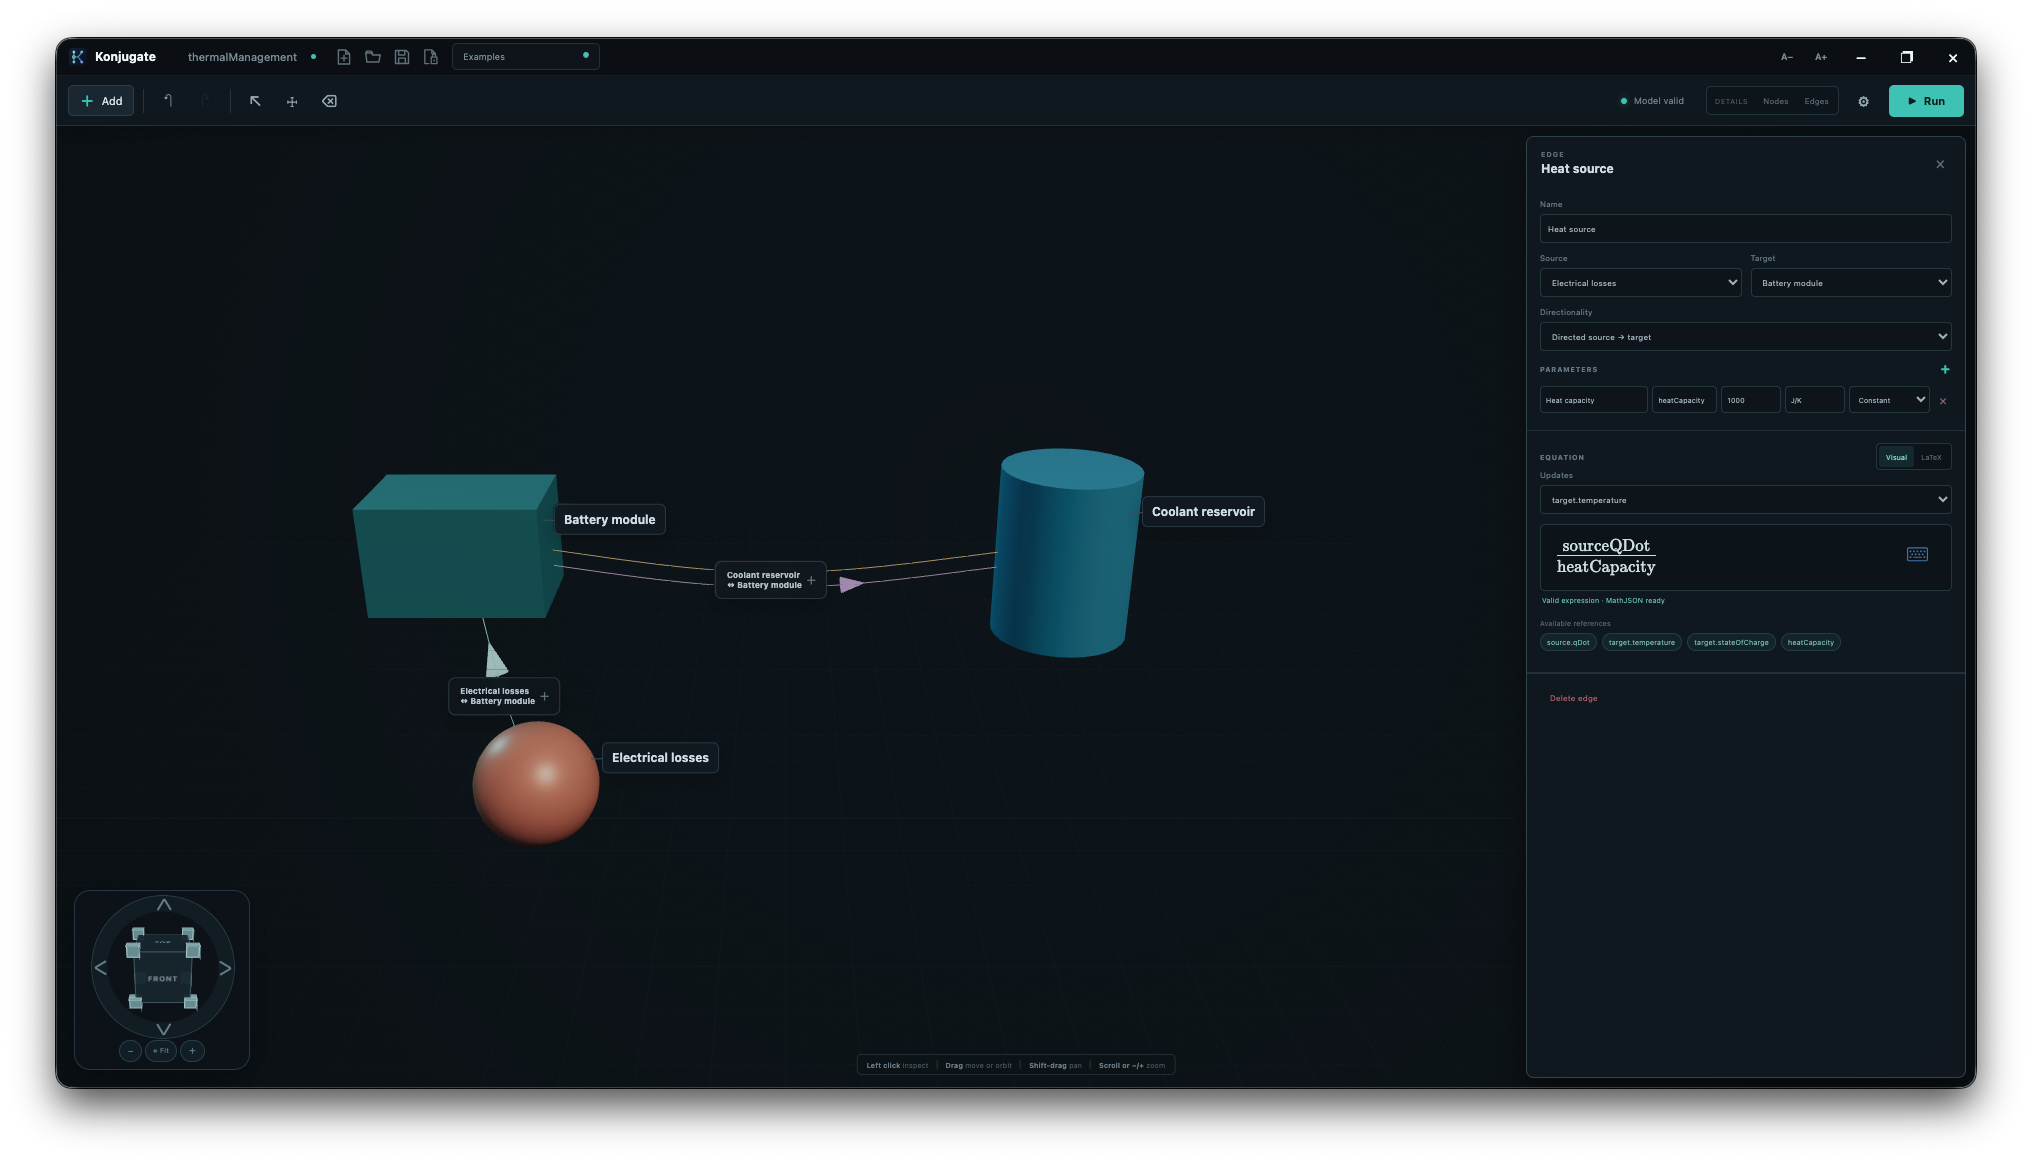
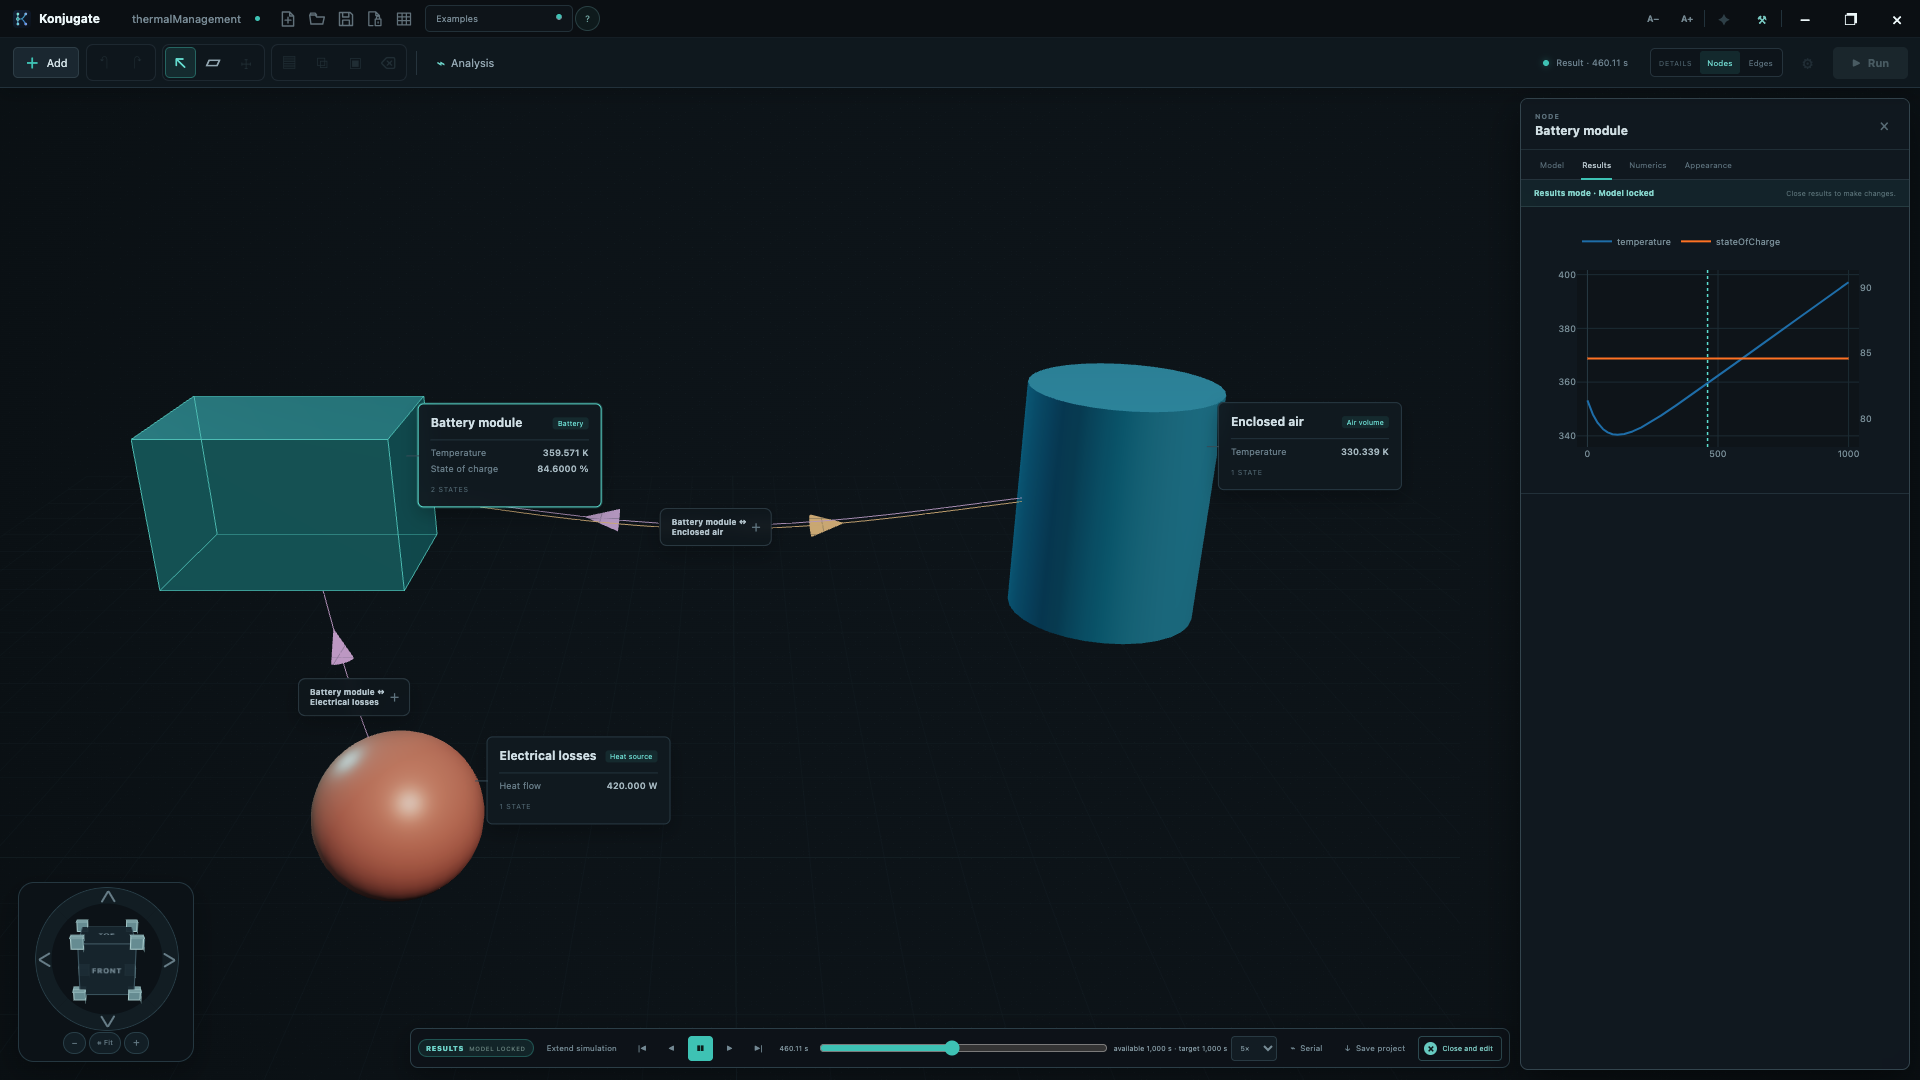
ReadMe update

diff --git a/ReadMe.md b/ReadMe.md
@@ -123,8 +123,8 @@ make build
 The build installs missing dependencies, generates application and web icons, packages Electron and writes the shareable artifact to `out/release/`.
 
 - macOS produces a DMG.
-- Windows produces a portable ZIP containing the executable.
-- Linux produces an AppImage and requires `appimagetool`.
+- Windows produces an installer (`*-setup.exe`) and requires NSIS (`makensis`) on `PATH`. A portable ZIP is also available via `make distributableWindowsPortable`.
+- Linux produces an AppImage and requires `appimagetool` on `PATH`. The official download is named after its architecture (e.g. `appimagetool-x86_64.AppImage`), so rename or symlink it to `appimagetool` and mark it executable. See [release packaging](docs/releasePackaging.md) for details.
 
 Generated application bundles are stored in `out/package/`. Run `make clean` to remove dependencies, the lockfile, generated icons, caches and all build outputs.
 

diff --git a/docs/releasePackaging.md b/docs/releasePackaging.md
@@ -29,7 +29,12 @@ Additional host tools are currently required:
   Add/Remove Programs-registered `*-setup.exe` from
   `packaging/windows/installer.nsi`; `make distributableWindowsPortable`
   still produces the plain ZIP for users who want an install-free copy.
-- Linux uses `rsvg-convert` and requires `appimagetool` for an AppImage.
+- Linux uses `rsvg-convert` and requires `appimagetool` for an AppImage. The
+  binary downloaded from the official releases page is named after its
+  architecture (e.g. `appimagetool-x86_64.AppImage`), not `appimagetool` — the
+  Makefile looks for `appimagetool` on `PATH`, so rename it or symlink it
+  (`ln -s appimagetool-x86_64.AppImage appimagetool`) into a directory on
+  `PATH`, and make sure it's executable (`chmod +x`).
 
 The NSIS script only stages files already produced by `packageWindows`
 (the electron-packager output plus the CMake-installed engine and METIS
